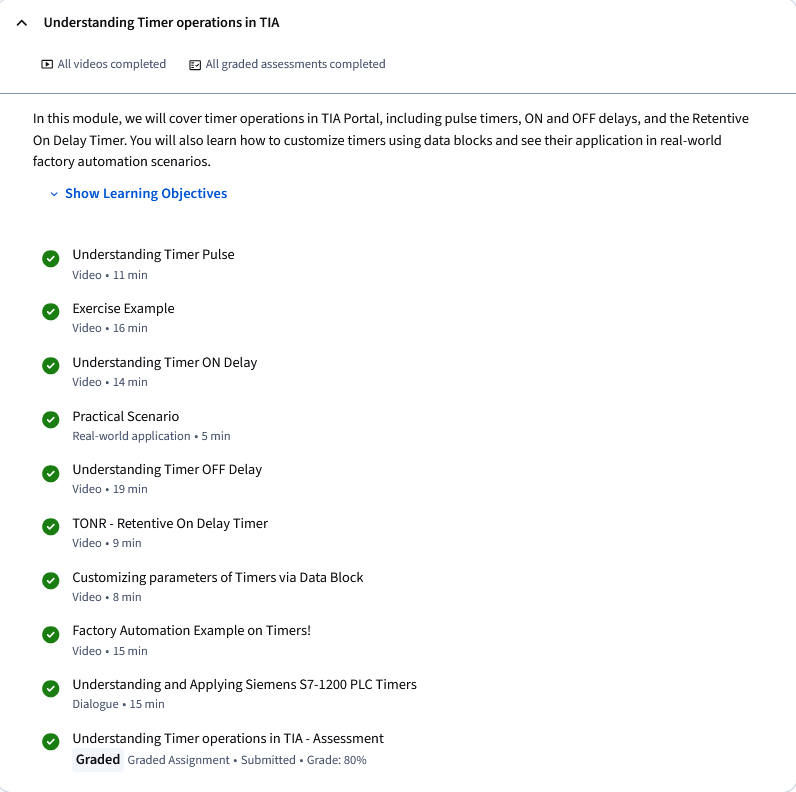
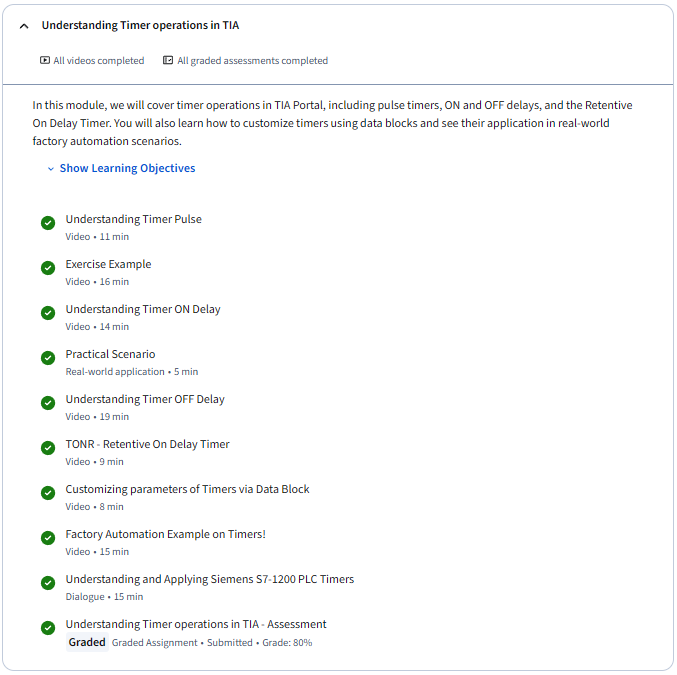
changed photots

diff --git a/plc.html b/plc.html
@@ -327,13 +327,13 @@
                         </figcaption>
                     </figure>
                     <figure>
-                        <img src="images/PLC/Milestone2/module5.png" class="PLC_Completion" alt="Module Completion proof">
+                        <img src="images/PLC/Milestone2/Module5.png" class="PLC_Completion" alt="Module Completion proof">
                         <figcaption class="html_fig">
                             This is proof that Module 5 of the PLC course has been completed. 
                         </figcaption>
                     </figure>
                     <figure>
-                        <img src="images/PLC/Milestone2/module6.png" class="PLC_Completion" alt="Module Completion proof">
+                        <img src="images/PLC/Milestone2/Module6.png" class="PLC_Completion" alt="Module Completion proof">
                         <figcaption class="html_fig">
                             This is proof that Module 6 of the PLC course has been completed. 
                         </figcaption>
